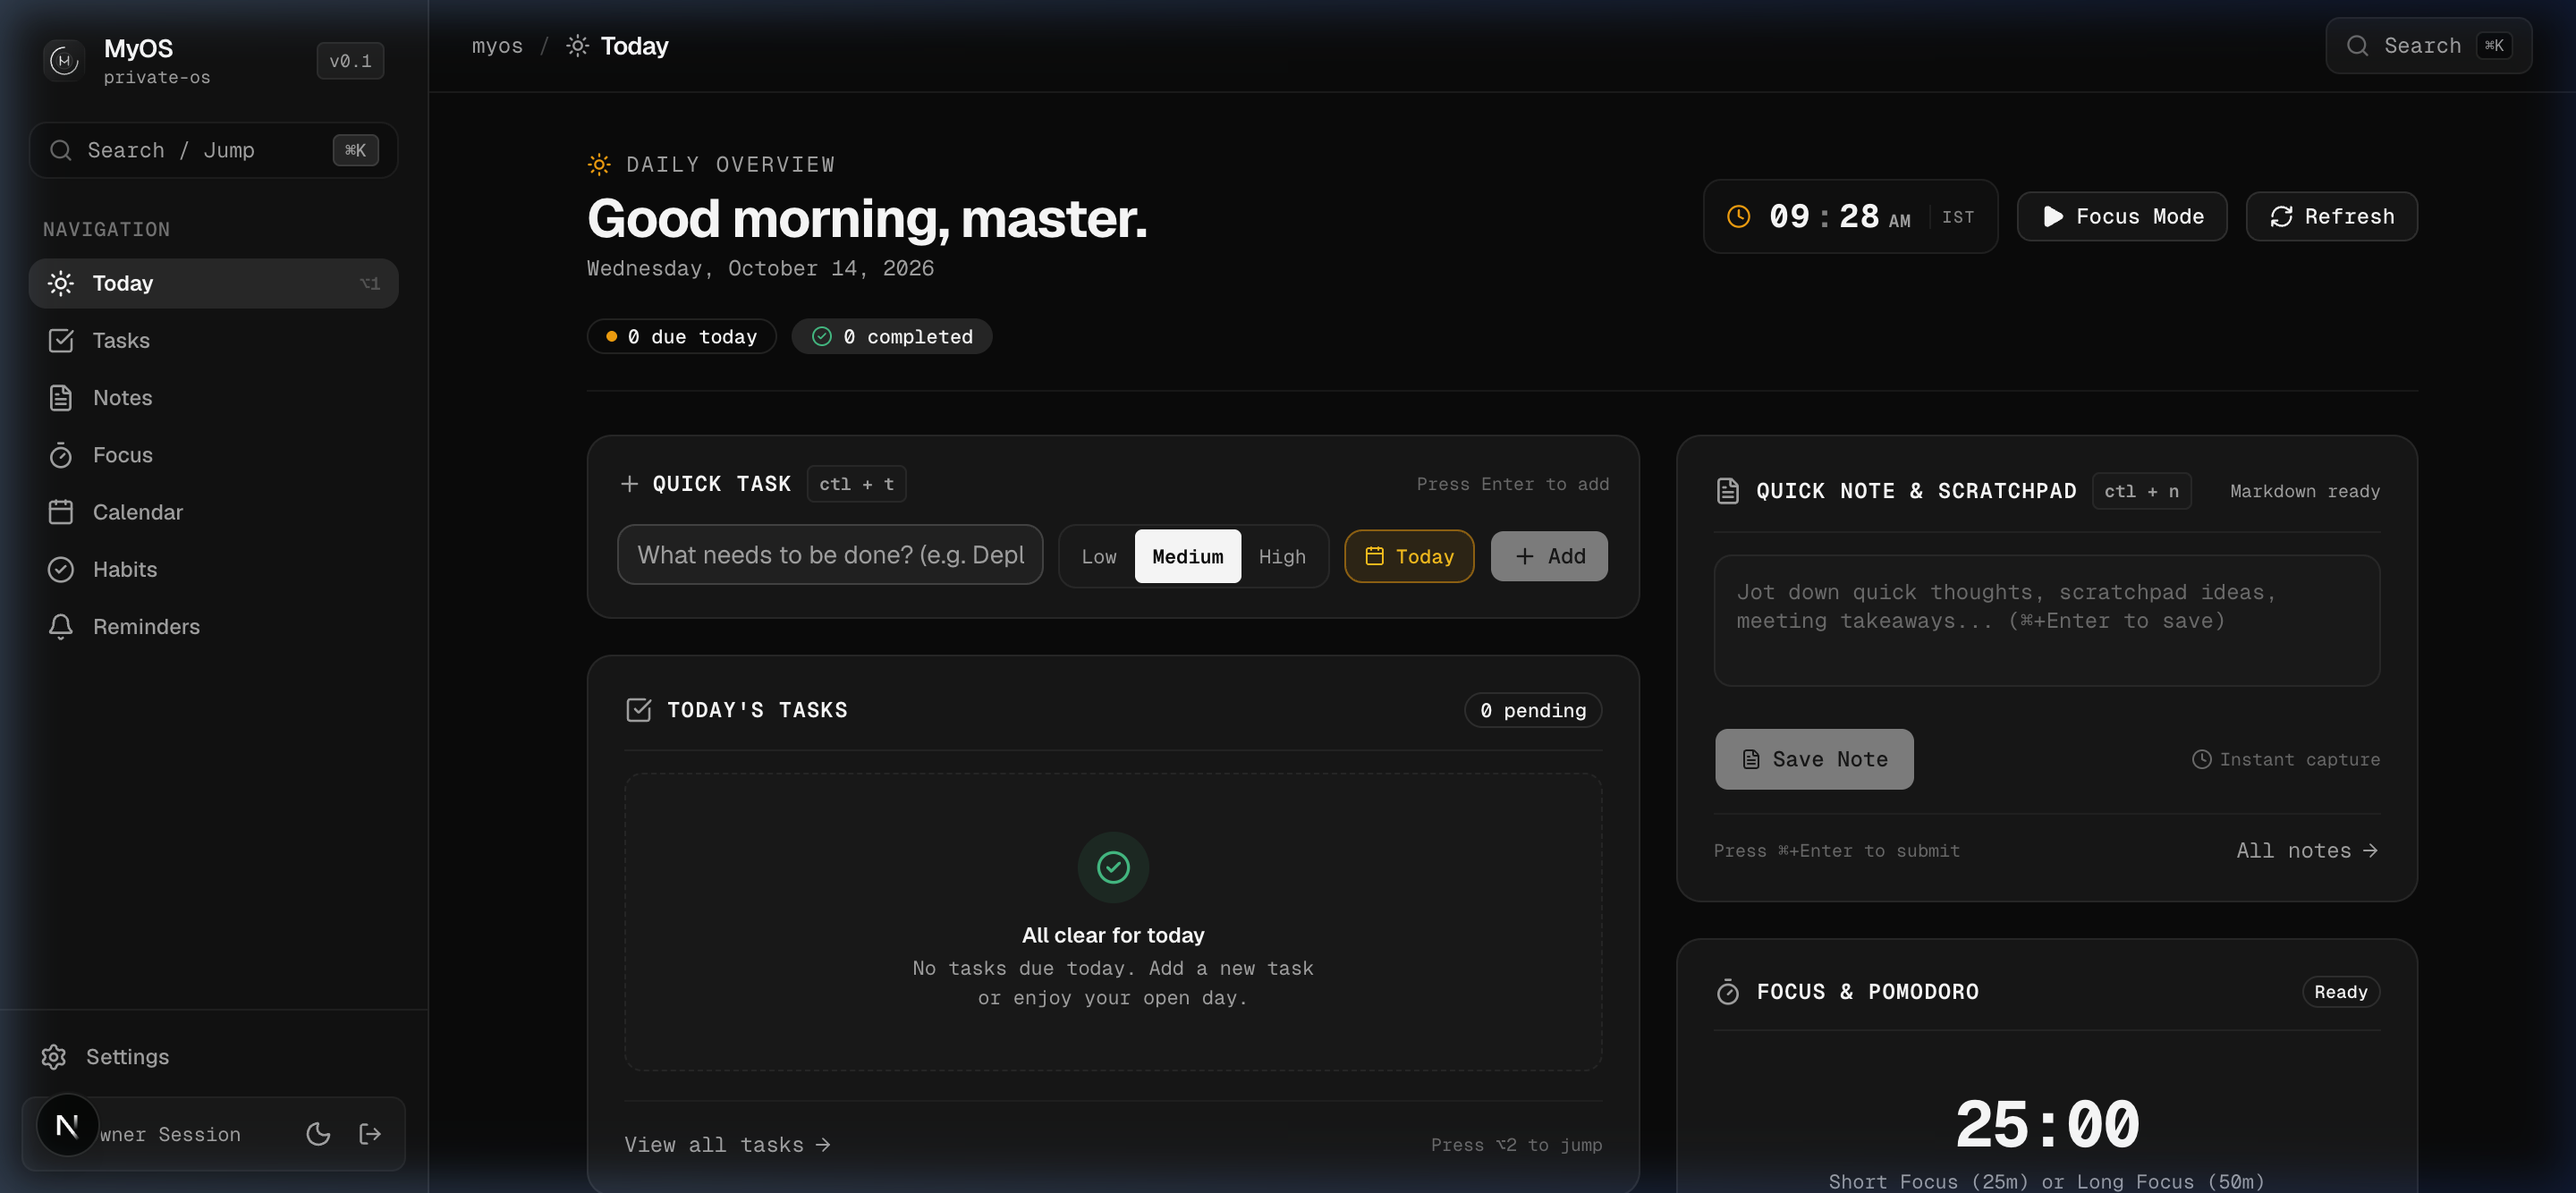
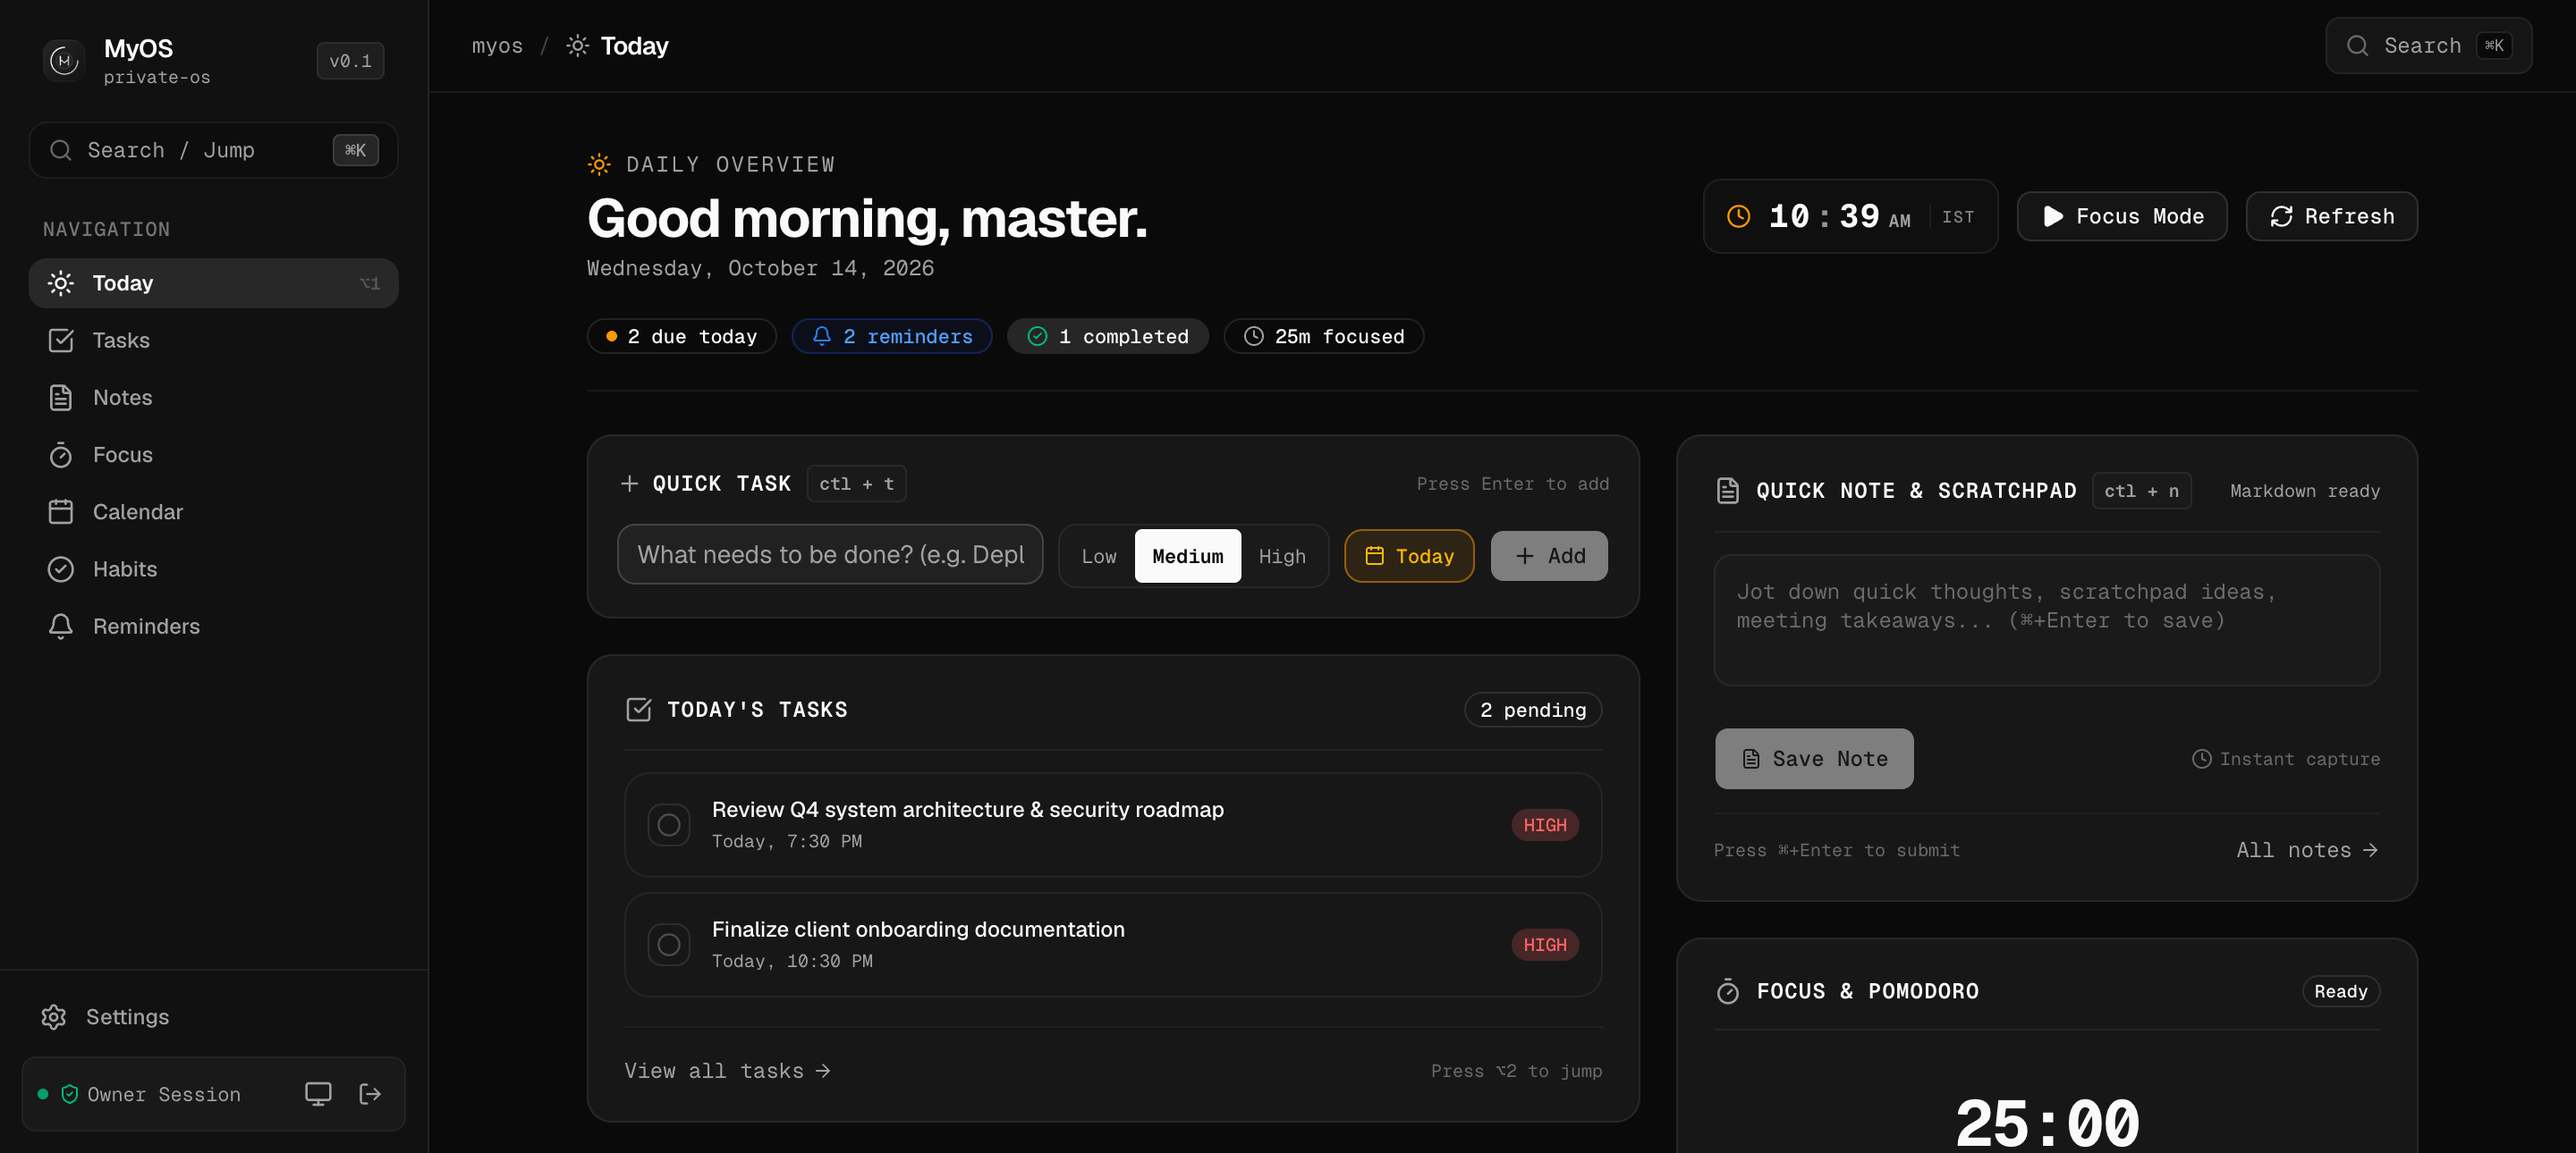
feat: update MyOS screenshot references to use the new today-preview image

diff --git a/app/page.tsx b/app/page.tsx
@@ -208,7 +208,7 @@ export default async function LandingPage() {
                   {/* Screenshot Image */}
                   <div className="relative aspect-[16/10] sm:aspect-[16/10] w-full overflow-hidden bg-neutral-950">
                     <Image
-                      src="/images/myos/today.png"
+                      src="/images/myos/today-preview.png"
                       alt="MyOS Today dashboard showing clock, daily priorities, Pomodoro timer, and upcoming reminders"
                       width={1440}
                       height={900}

diff --git a/components/landing/screenshot-showcase.tsx b/components/landing/screenshot-showcase.tsx
@@ -7,7 +7,7 @@ const screenshots = [
   {
     id: "today",
     label: "Today",
-    src: "/images/myos/today.png",
+    src: "/images/myos/today-preview.png",
     caption:
       "Everything that matters today — tasks, reminders, events, and focus sessions in one view.",
   },
